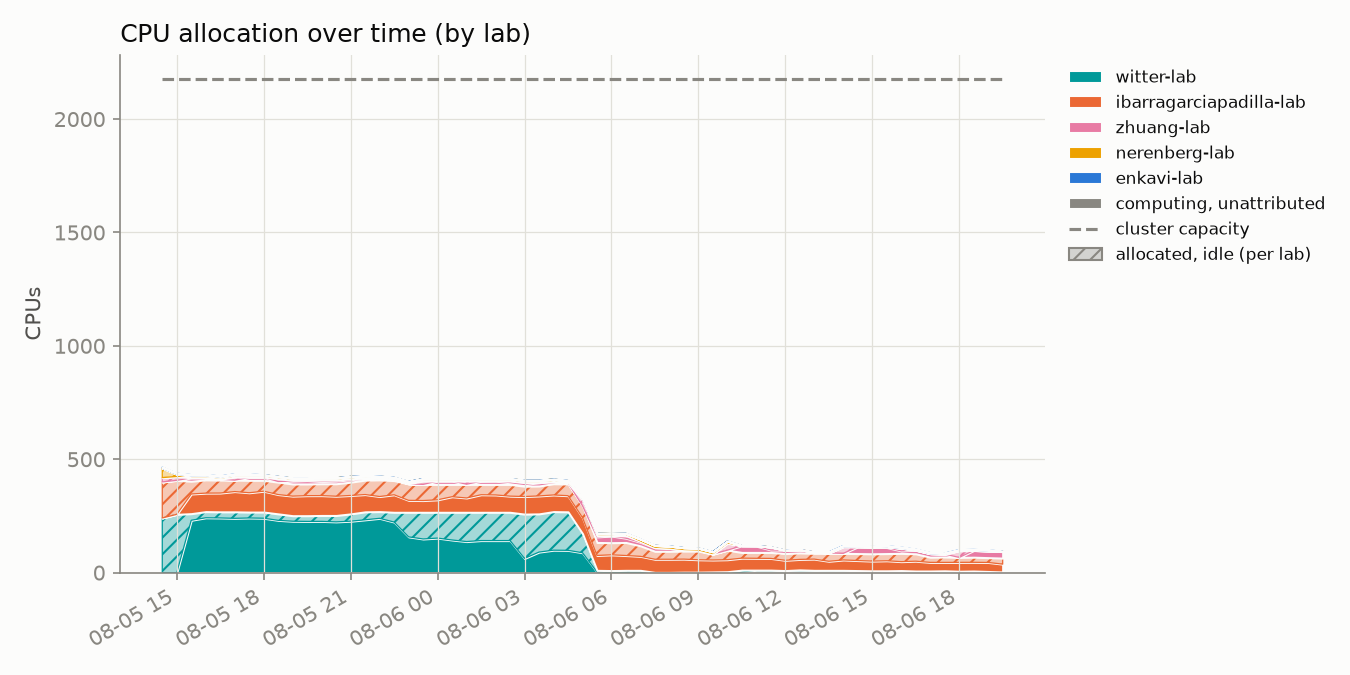
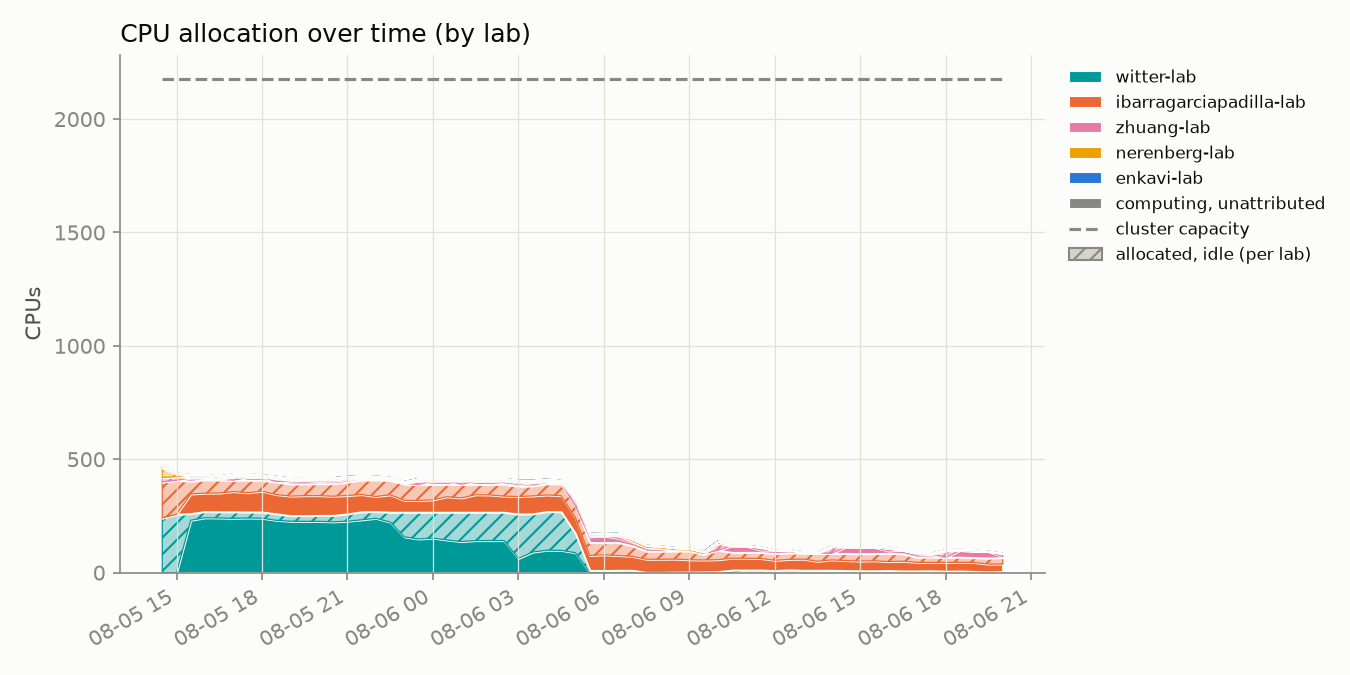
update 2026-08-06T20:00:01-07:00

diff --git a/README.md b/README.md
@@ -2,8 +2,8 @@
 
 Automated GPU/CPU/queue utilization tracker for `hopper.cluster`, updated every 30 minutes by cron. Usernames are anonymized to a stable per-account pseudonym; lab names are real.
 
-Last updated: 2026-08-06T19:30:18-07:00
-Samples: 59 queue snapshots, 59 GPU snapshots
+Last updated: 2026-08-06T20:00:15-07:00
+Samples: 60 queue snapshots, 60 GPU snapshots
 
 ## Resources
 
@@ -16,23 +16,23 @@ Samples: 59 queue snapshots, 59 GPU snapshots
 
 ## Headline
 
-- **64.7%** of the cluster's 60 GPUs allocated, averaged across all samples
-- **42.9%** average `nvidia-smi` utilization *when* a GPU is allocated to a job
+- **64.3%** of the cluster's 60 GPUs allocated, averaged across all samples
+- **43.0%** average `nvidia-smi` utilization *when* a GPU is allocated to a job
 - **83.5%** average cgroup CPU utilization *when* a CPU is allocated to a job
 
 ## Per lab / per user
 
 <table>
 <tr><th>Lab</th><th>User</th><th align='right'>GPU-hours allocated</th><th align='right'>CPU-hours allocated</th><th align='right'>GPU utilization</th></tr>
-<tr style='background-color:#fbebf1'><td>zhuang-lab</td><td>user-0db9ced0</td><td align='right'>501.0</td><td align='right'>501.0</td><td align='right'>50%</td></tr>
+<tr style='background-color:#fbebf1'><td>zhuang-lab</td><td>user-0db9ced0</td><td align='right'>510.5</td><td align='right'>510.5</td><td align='right'>50%</td></tr>
 <tr style='background-color:#d8efef'><td>witter-lab</td><td>user-d58f5a15</td><td align='right'>467.5</td><td align='right'>3740.0</td><td align='right'>9%</td></tr>
-<tr style='background-color:#d8efef'><td>witter-lab</td><td>user-554c620c</td><td align='right'>137.5</td><td align='right'>255.5</td><td align='right'>69%</td></tr>
+<tr style='background-color:#d8efef'><td>witter-lab</td><td>user-554c620c</td><td align='right'>139.0</td><td align='right'>258.0</td><td align='right'>69%</td></tr>
 <tr style='background-color:#fcf0d8'><td>nerenberg-lab</td><td>user-6bb5f332</td><td align='right'>40.0</td><td align='right'>200.0</td><td align='right'>71%</td></tr>
-<tr style='background-color:#fce8e0'><td>ibarragarciapadilla-lab</td><td>user-eec7ffae</td><td align='right'>0.0</td><td align='right'>234.5</td><td align='right'>—</td></tr>
-<tr style='background-color:#fcf0d8'><td>nerenberg-lab</td><td>user-b12dc074</td><td align='right'>0.0</td><td align='right'>16.0</td><td align='right'>—</td></tr>
-<tr style='background-color:#fce8e0'><td>ibarragarciapadilla-lab</td><td>user-dad71a72</td><td align='right'>0.0</td><td align='right'>4.5</td><td align='right'>—</td></tr>
 <tr style='background-color:#dfeaf8'><td>enkavi-lab</td><td>user-c21bdaa4</td><td align='right'>0.0</td><td align='right'>38.0</td><td align='right'>—</td></tr>
-<tr style='background-color:#fce8e0'><td>ibarragarciapadilla-lab</td><td>user-3cfc41a3</td><td align='right'>0.0</td><td align='right'>2955.0</td><td align='right'>—</td></tr>
+<tr style='background-color:#fce8e0'><td>ibarragarciapadilla-lab</td><td>user-dad71a72</td><td align='right'>0.0</td><td align='right'>5.0</td><td align='right'>—</td></tr>
+<tr style='background-color:#fcf0d8'><td>nerenberg-lab</td><td>user-b12dc074</td><td align='right'>0.0</td><td align='right'>16.0</td><td align='right'>—</td></tr>
+<tr style='background-color:#fce8e0'><td>ibarragarciapadilla-lab</td><td>user-3cfc41a3</td><td align='right'>0.0</td><td align='right'>2985.0</td><td align='right'>—</td></tr>
+<tr style='background-color:#fce8e0'><td>ibarragarciapadilla-lab</td><td>user-eec7ffae</td><td align='right'>0.0</td><td align='right'>234.5</td><td align='right'>—</td></tr>
 </table>
 
 ## Usage over time
@@ -43,7 +43,7 @@ Samples: 59 queue snapshots, 59 GPU snapshots
 
 Solid = utilized by lab, hatched = allocated but idle, gray = usage not traceable to a lab, dashed line = cluster capacity.
 
-Attribution combines `nvidia-smi`'s process listing with Slurm's GPU-to-job binding record; the latter caught **1737** readings the former missed.
+Attribution combines `nvidia-smi`'s process listing with Slurm's GPU-to-job binding record; the latter caught **1755** readings the former missed.
 
 ## Queue
 
@@ -55,13 +55,13 @@ Attribution combines `nvidia-smi`'s process listing with Slurm's GPU-to-job bind
 
 ![CPU usage vs GPU usage, decayed](assets/cpu_gpu_usage.png)
 
-One point per user per snapshot (n=321), usage decayed on Slurm's ~7-day fairshare half-life.
+One point per user per snapshot (n=325), usage decayed on Slurm's ~7-day fairshare half-life.
 
 **GPU usage doesn't count toward priority on this cluster** (`TRESBillingWeights`/`PriorityWeightTRES` unset) - watch the **upper-left**: low CPU usage (high priority) with high GPU usage.
 
 ## Recommendations
 
-1. **Weight GPU usage in fairshare.** `TRESBillingWeights` and `PriorityWeightTRES` are both unset right now, so Slurm's fairshare score only sees CPU-seconds - a job holding 4 idle L40S GPUs costs nothing in priority as long as it isn't also holding CPUs. That's the exact failure mode the scatter above is built to catch (upper-left: low CPU usage, high GPU usage). Fix: `scontrol update partition=main TRESBillingWeights=CPU=1.0,GRES/gpu=<weight>` (or set `PriorityWeightTRES` cluster-wide), then `scontrol reconfigure` - a full `slurmctld` restart also works but drops in-flight priority state. A reasonable starting point for `<weight>` is the CPUs-per-GPU ratio on a GPU node (128 CPUs / 4 GPUs = 32), so one GPU costs as much fairshare as the CPU share it displaces; tune from there against next week's headline numbers (64.7% allocated, 42.9% utilized when allocated, as of this snapshot). The weight value itself is a policy call - loop in whoever owns cluster allocation policy before changing it.
+1. **Weight GPU usage in fairshare.** `TRESBillingWeights` and `PriorityWeightTRES` are both unset right now, so Slurm's fairshare score only sees CPU-seconds - a job holding 4 idle L40S GPUs costs nothing in priority as long as it isn't also holding CPUs. That's the exact failure mode the scatter above is built to catch (upper-left: low CPU usage, high GPU usage). Fix: `scontrol update partition=main TRESBillingWeights=CPU=1.0,GRES/gpu=<weight>` (or set `PriorityWeightTRES` cluster-wide), then `scontrol reconfigure` - a full `slurmctld` restart also works but drops in-flight priority state. A reasonable starting point for `<weight>` is the CPUs-per-GPU ratio on a GPU node (128 CPUs / 4 GPUs = 32), so one GPU costs as much fairshare as the CPU share it displaces; tune from there against next week's headline numbers (64.3% allocated, 43.0% utilized when allocated, as of this snapshot). The weight value itself is a policy call - loop in whoever owns cluster allocation policy before changing it.
 
 2. **Escalate on sustained low utilization** (see table and scatter above). Right now the clearest candidate is `user-d58f5a15` in `witter-lab`: 467.5 GPU-hours allocated at 9% average utilization, i.e. roughly 424 GPU-hours that sat idle instead of going to someone in the queue. Turning that into an automated escalation needs two decisions made up front: a utilization threshold (something like under 20% mean utilization over at least 50 allocated GPU-hours is a defensible starting bar - loose enough to skip short debugging runs, tight enough to catch parked allocations) and a grace period (how many consecutive low-utilization snapshots before it counts as "sustained" rather than a momentary lull between batches). Once those are set, the mechanism can be either soft (a bot that reads `data/gpu_samples.jsonl` and reminds the user/lab by email or Slack) or hard (a Slurm-side QOS penalty, e.g. `sacctmgr modify qos <qos> set Priority-=<n>`, applied after N consecutive offending snapshots). Neither exists yet - today the table and scatter above are a read-only signal, not an enforced policy.
 
